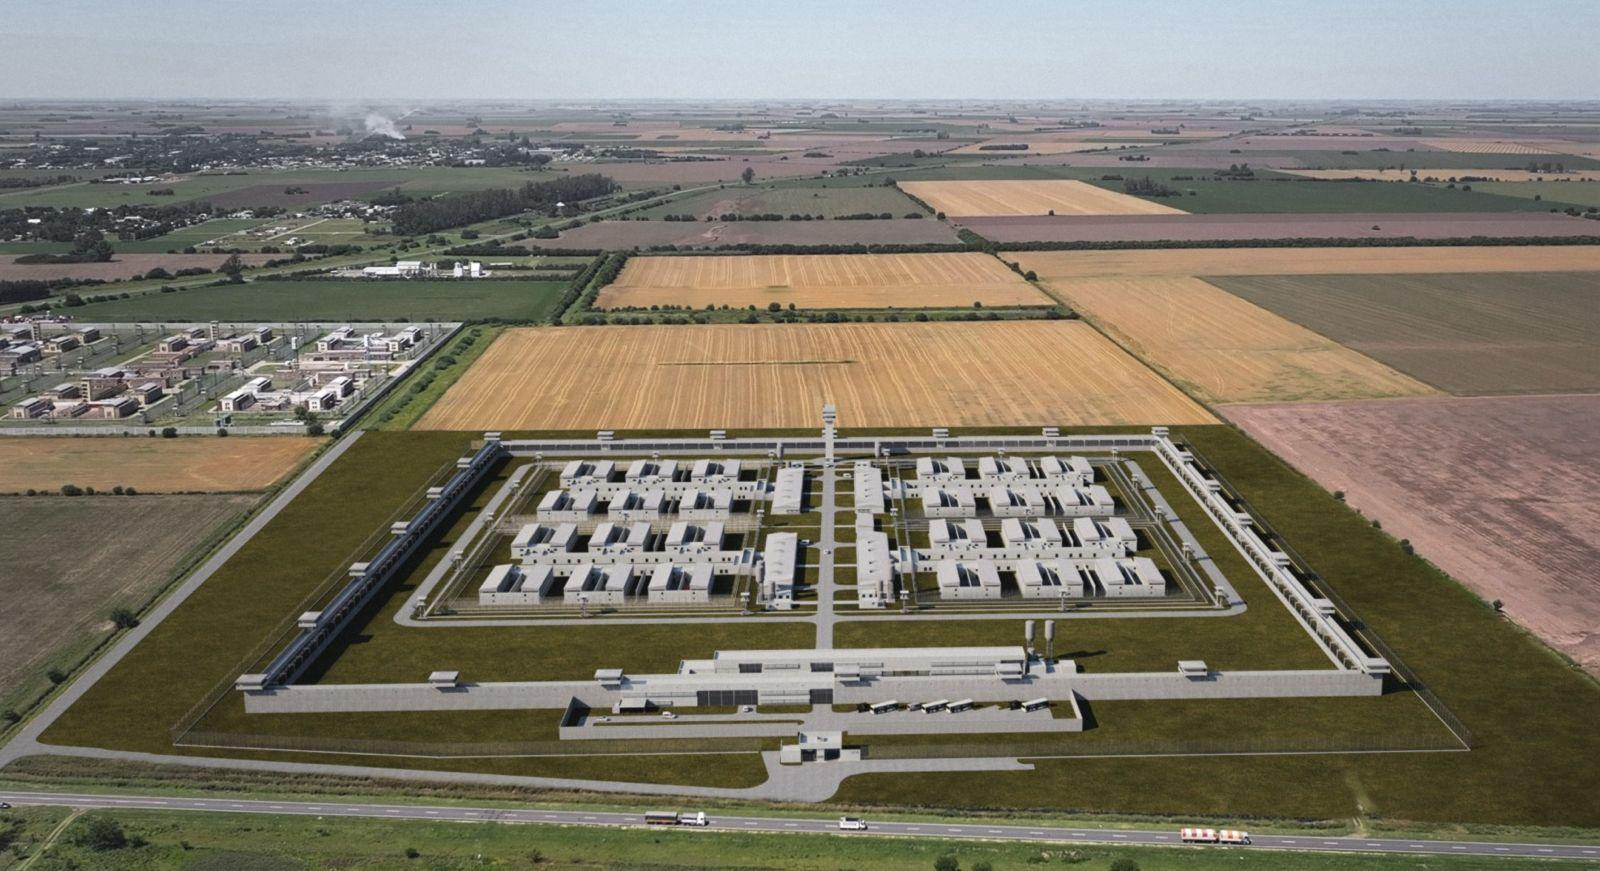
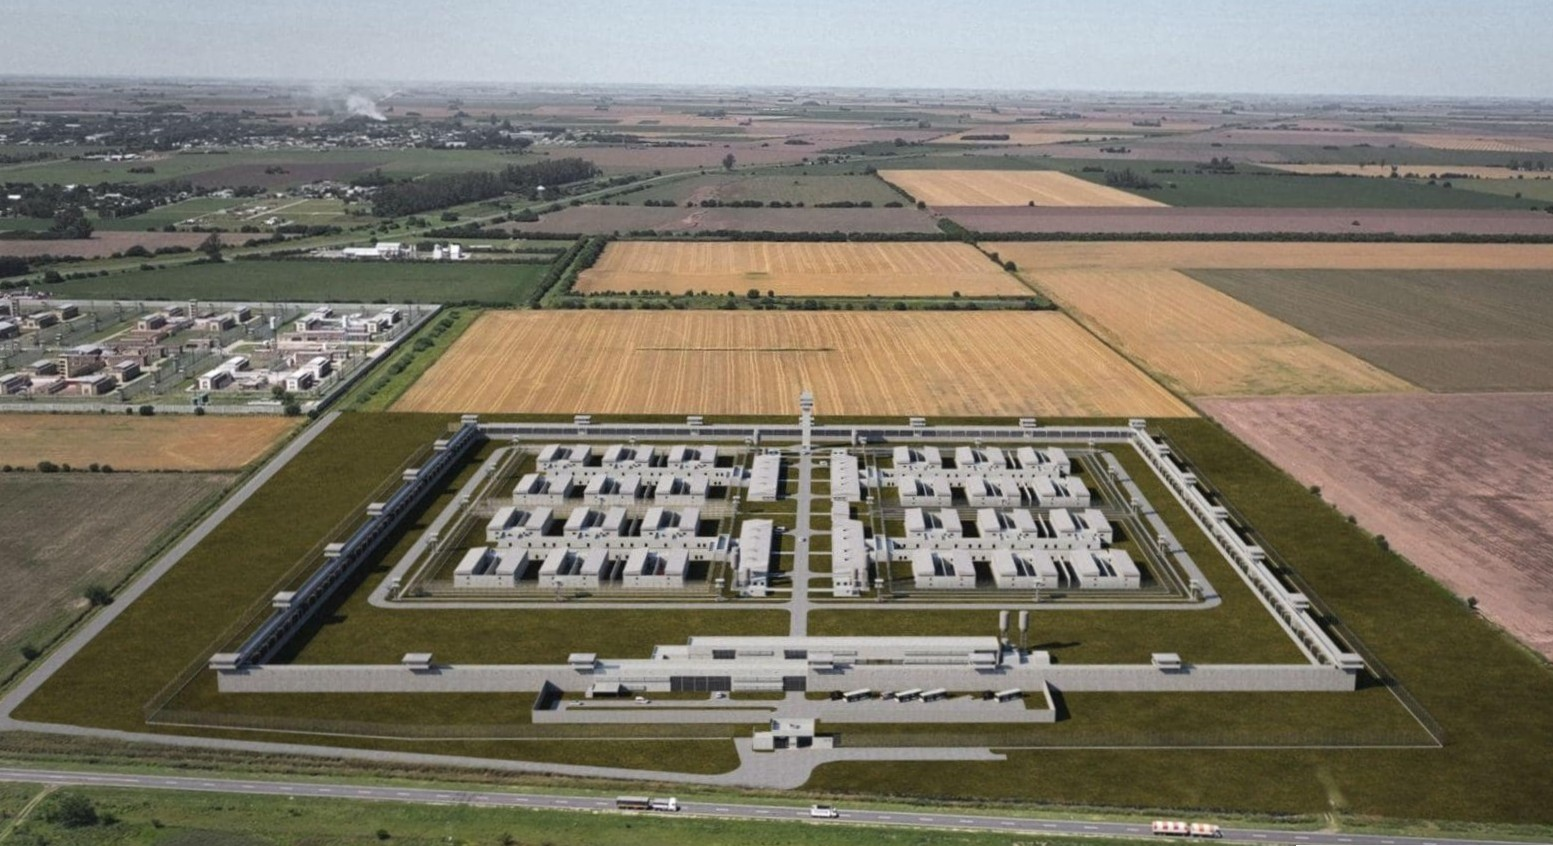
obras

diff --git a/docs/index.html b/docs/index.html
@@ -70,7 +70,7 @@
         <div class="slide activa" style="background-image:url('img/hero/monumento.jpg')"></div>
         <div class="slide" style="background-image:url('img/hero/plaza-san-martin.jpg')"></div>
         <div class="slide" style="background-image:url('img/hero/tecnoteca.jpg')"></div>
-        <div class="slide" style="background-image:url('img/hero/hospital.jpeg')"></div>
+        <div class="slide" style="background-image:url('img/hero/hospital.jpg')"></div>
         <div class="slide" style="background-image:url('img/hero/pineiro.jpg')"></div>
       </div>
 

diff --git a/docs/obras.html b/docs/obras.html
@@ -55,7 +55,7 @@
     <section class="page-hero">
       <div class="contenedor">
         <p class="migas"><a href="index.html">Inicio</a> / Obras</p>
-        <h1>Great Work</h1>
+        <h1>Obras</h1>
         <p>Proyectos que ejecutamos por cuenta propia y obras realizadas en colaboración con otras empresas constructoras.</p>
       </div>
     </section>
